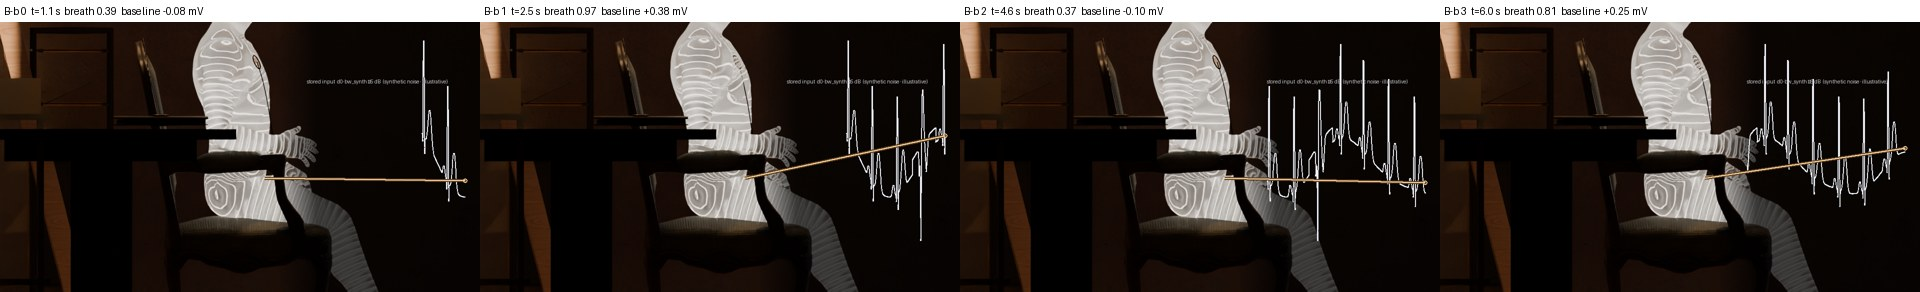
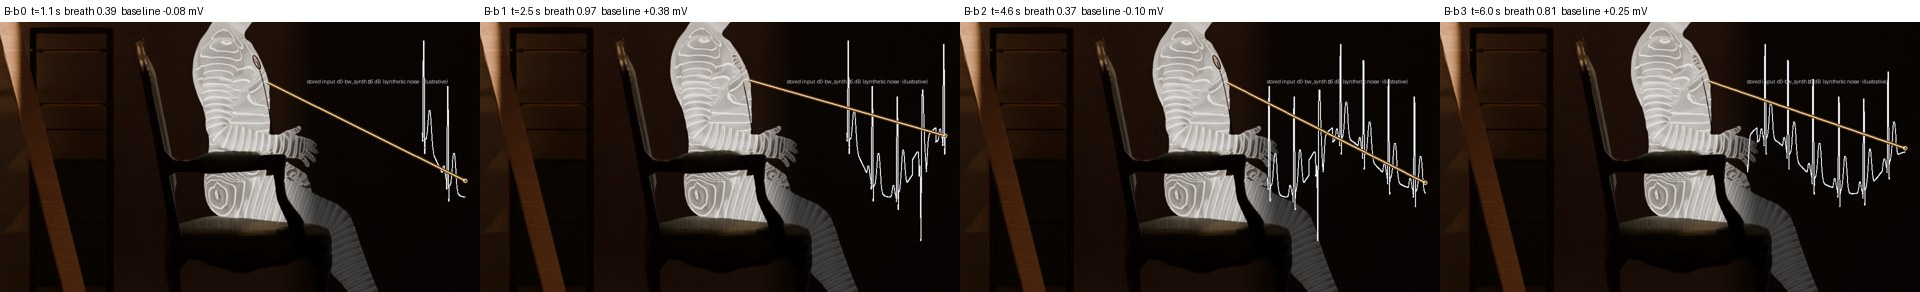
Inflow check: B-b rerender (thread from the chest, desk no longer in front), README with verdicts
Claude-Session: https://claude.ai/code/session_01AXbpXSdzA7KrmCTamq6EbE

diff --git a/verification/r1-inflow-20261007/README.md b/verification/r1-inflow-20261007/README.md
@@ -1,0 +1,24 @@
+# R1 유입 표시 확인 렌더 (D-054) — 2026-10-07
+
+만들기: `INFLOW=1 FIST_POSE=chair ARCHIVE_BLEND=<build_archive.py --light r2 --nofig --save 결과> LOOK=h5 CAM_LENS=16 python scripts/assets/fist-v3.py` (`scripts/assets/inflow-preview-v3.py`). 한 장면만: `INFLOW_ONLY=bw`.
+Cycles 24 spp, 서고 r2, 의자 GreenChair_01, H5 몸. 렌더 전 자세 관문(손가락 42프레임 + 숨 0/0.4/0.8 × 편 손/주먹) FAIL 0.
+
+## 대체물(웹과 다름)
+- 전극은 figure.json 정점 위 원판. 리드는 RA에서 한 가닥만(묶음·카트까지 경로 없음). 심장 없음.
+- 전원선 둘레의 장(P-b 첫 단계)은 'ma' 화면 밖이라 이번에 넣지 않음.
+- 근육 물결의 거리는 손목 → 팔꿈치 → 어깨 → RA 선을 따른 길이(휴지 자세에서 정점마다 1회 계산)로, 실제 조직 경로가 아님.
+
+## 결과
+| 시트 | 보이는 것 | 판정 |
+|---|---|---|
+| `inflow_pli.jpg` | 전 → 몸 전체 옅은 빨강(공통 모드) → RA 고리·리드만 진한 빨강(차이) | 읽힘. 공통 모드 빨강이 옅어(분홍) 화면에서 세기를 정해야 함 |
+| `inflow_ma.jpg` | 주먹을 쥔 채 빨강 물결이 주먹 → 아래팔 → 위팔 → 어깨 → RA, 도착 때 RA 고리·리드 켜짐 | 읽힘. 물결 시작이 주먹 전체를 물들여 "주먹이 원인"으로도 읽힘 |
+| `inflow_bw.jpg` | 옆모습(사람의 오른쪽), 오른쪽 막에 저장 입력(d0-bw_synth −5 dB) 4초 sweep, 가슴 앞선 → 저장 기저선(1초 이동평균) 빛줄기. 숨은 저장 기저선에 맞춤(오르면 들숨, F-030) | 조건부. 선은 이어지지만 대각선으로 길고, 기저선 점은 크게 오르내리는데 가슴 점은 거의 안 움직여 "같은 위상"이 눈으로 덜 읽힘 |
+
+## 고친 결함
+- B-b 첫 실행: 옆 카메라 앞을 서고 책상이 가림 → 직교 카메라 앞 자르기(clip start). 가슴 점을 서 있는 휴지 자세 좌표로 골라 배 높이에서 시작 → 앉은 자세 피부에서 다시 고름.
+
+## 남은 것 / 다음
+- B-b: 파형 막의 0 mV 높이를 가슴 점 높이에 맞추면(막 배치만, 값은 그대로) 선이 거의 수평이 됨. 막 높이·크기를 같이 정해야 함.
+- B-b: 옆모습에서 머리가 잘림(직교 크기 1.6).
+- P-b: 장 껍질은 원경 카메라에서 따로 확인.
